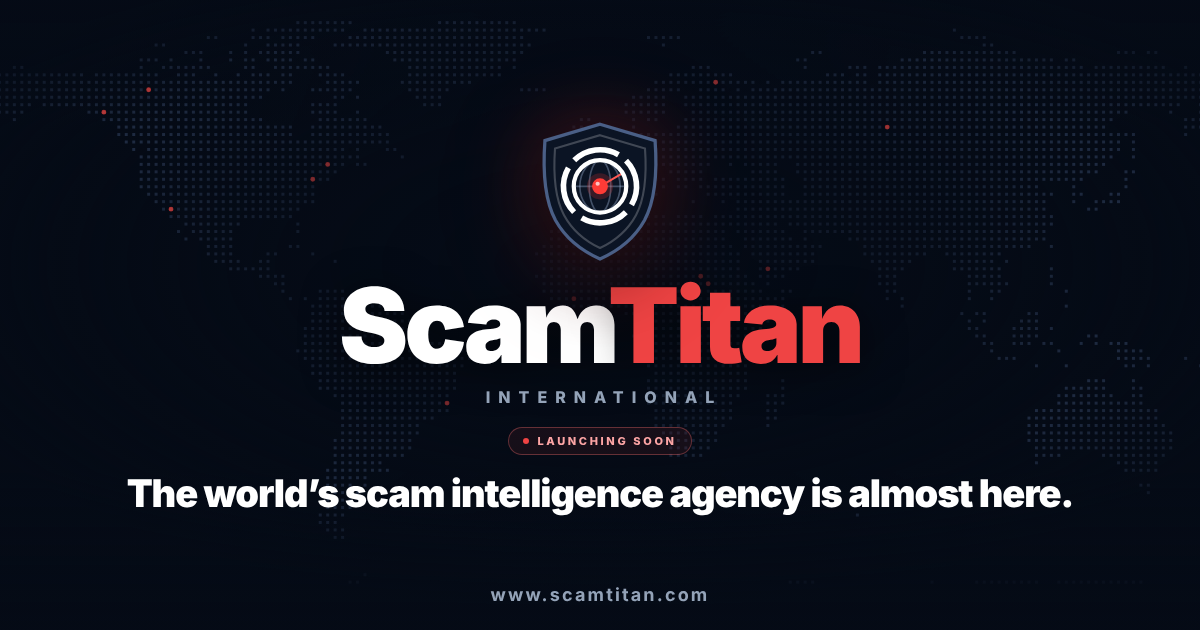
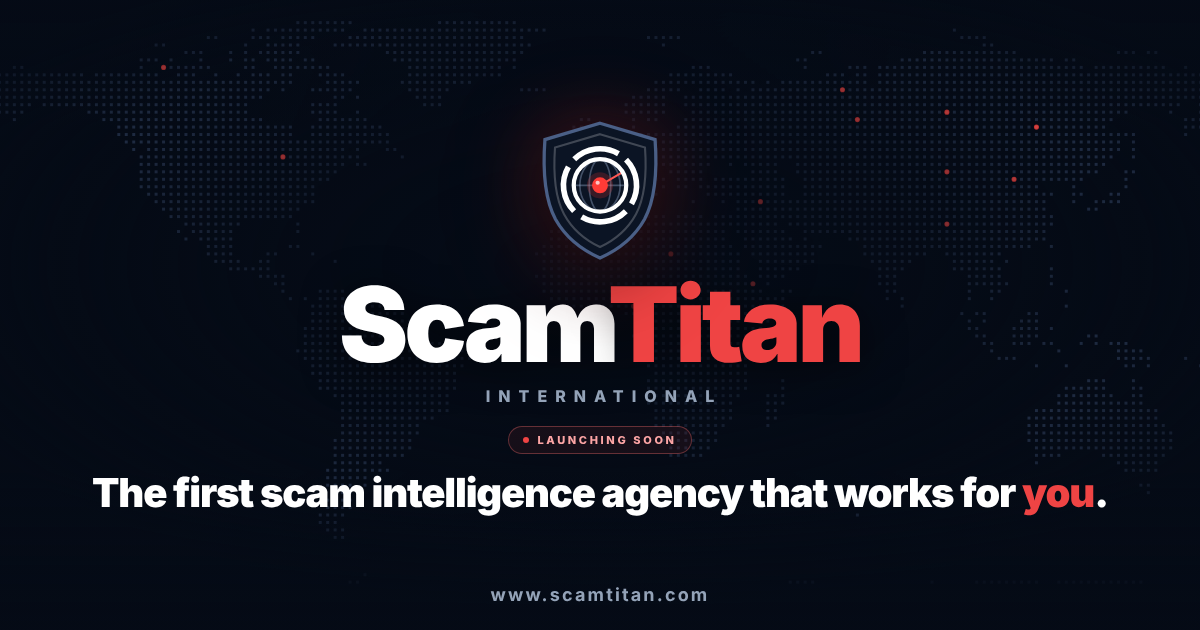
Launch page: lead with what makes ScamTitan one of a kind
New headline, "The first scam intelligence agency that works for you",
and four promise cards drawn from the owner's description of the
service: talk to a real person who documents everything; one call and we
report it to every agency that needs it (FTC, FBI, state AG); scams
watched in 210 countries 24/7; email and text alerts before a scam
reaches you. Cards rise in on load (still for reduced motion); 4 across
on desktop, 2 on tablets, stacked on phones where the email sign-up now
comes before them. Shorter laptop screens get a tighter hero so the
sign-up stays above the fold. Title, description, share card (og.png)
and the app's og:description carry the same message.

Claude-Session: https://claude.ai/code/session_01MUUa22jAfoa1FbSQjeR93R

diff --git a/scamshield-national/frontend/launch/page.js b/scamshield-national/frontend/launch/page.js
@@ -29,12 +29,21 @@ const LOGO = `
   <circle cx="31" cy="28.9" r=".9" fill="#fff" fill-opacity=".7"/>
 </svg>`;
 
+// Line icons for the four promises (stroke = currentColor).
+const svg = (d) => `<svg viewBox="0 0 24 24" fill="none" stroke="currentColor" stroke-width="2" stroke-linecap="round" stroke-linejoin="round">${d}</svg>`;
+const ICON = {
+  phone: svg('<path d="M22 16.9v3a2 2 0 0 1-2.2 2 19.8 19.8 0 0 1-8.6-3.1 19.5 19.5 0 0 1-6-6A19.8 19.8 0 0 1 2.1 4.2 2 2 0 0 1 4.1 2h3a2 2 0 0 1 2 1.7c.1.9.4 1.8.7 2.7a2 2 0 0 1-.5 2.1L8 9.8a16 16 0 0 0 6 6l1.3-1.3a2 2 0 0 1 2.1-.4c.9.3 1.8.6 2.7.7a2 2 0 0 1 1.7 2z"/>'),
+  file: svg('<path d="M14 2H6a2 2 0 0 0-2 2v16a2 2 0 0 0 2 2h12a2 2 0 0 0 2-2V8z"/><path d="M14 2v6h6"/><path d="m9 15 2 2 4-4"/>'),
+  globe: svg('<circle cx="12" cy="12" r="10"/><path d="M2 12h20"/><path d="M12 2a15.3 15.3 0 0 1 4 10 15.3 15.3 0 0 1-4 10 15.3 15.3 0 0 1-4-10 15.3 15.3 0 0 1 4-10z"/>'),
+  bell: svg('<path d="M6 8a6 6 0 0 1 12 0c0 7 3 9 3 9H3s3-2 3-9"/><path d="M10.3 21a1.94 1.94 0 0 0 3.4 0"/>'),
+};
+
 const esc = (s) => String(s).replace(/[&<>"]/g, (c) => ({ '&': '&amp;', '<': '&lt;', '>': '&gt;', '"': '&quot;' })[c]);
 
 export function launchPage({ codeError = false } = {}) {
-  const title = 'ScamTitan International — The world’s scam intelligence agency is almost here';
+  const title = 'ScamTitan International — the first scam intelligence agency that works for you';
   const description =
-    'Thousands of documented scams from 210 countries, live official warnings, a free scam checker and alerts before a scam reaches you. Be the first inside.';
+    'Talk to a real person, and we report your scam to every agency that needs it. Scams monitored in 210 countries, 24/7, with alerts before they reach you. Launching soon.';
   return `<!doctype html>
 <html lang="en" data-scamshield-coming-soon>
 <head>
@@ -91,6 +100,17 @@ export function launchPage({ codeError = false } = {}) {
   @keyframes blink{50%{opacity:.2}}
   h1{margin:14px auto 0;max-width:780px;font-size:clamp(28px,5.2vw,48px);line-height:1.06;font-weight:900;letter-spacing:-.03em;color:#fff}
   .lead{margin:16px auto 0;max-width:600px;font-size:clamp(15px,2.2vw,18px);line-height:1.6;color:#cbd5e1}
+  h1 em{font-style:normal;color:#ef4444}
+  .pillars{list-style:none;display:grid;grid-template-columns:repeat(4,minmax(0,1fr));gap:12px;width:100%;max-width:1100px;margin:28px auto 0;padding:0;text-align:left}
+  .pillars li{position:relative;padding:18px 16px 16px;border:1px solid rgba(148,163,184,.16);border-radius:16px;background:linear-gradient(180deg,rgba(20,32,54,.72),rgba(11,20,36,.72));backdrop-filter:blur(6px);
+    opacity:0;transform:translateY(12px);animation:rise .7s ease-out forwards}
+  .pillars li:nth-child(2){animation-delay:.12s}.pillars li:nth-child(3){animation-delay:.24s}.pillars li:nth-child(4){animation-delay:.36s}
+  @keyframes rise{to{opacity:1;transform:none}}
+  .pillars li::before{content:'';position:absolute;inset:0 0 auto;height:2px;border-radius:16px 16px 0 0;background:linear-gradient(90deg,transparent,#ef4444,transparent)}
+  .ic{display:inline-flex;align-items:center;justify-content:center;width:38px;height:38px;border-radius:11px;background:rgba(239,68,68,.12);color:#f87171;border:1px solid rgba(239,68,68,.3)}
+  .ic svg{width:20px;height:20px}
+  .pillars b{display:block;margin-top:12px;font-size:15px;font-weight:800;color:#fff;letter-spacing:-.01em}
+  .pillars span:last-child{display:block;margin-top:6px;font-size:13px;line-height:1.5;color:#94a3b8}
   .stats{display:grid;grid-template-columns:repeat(3,minmax(0,1fr));gap:10px;width:100%;max-width:640px;margin:24px auto 0;opacity:0;transition:opacity .6s}
   .stats.on{opacity:1}
   .stat{padding:14px 8px;border:1px solid rgba(148,163,184,.16);border-radius:14px;background:rgba(15,26,43,.55);backdrop-filter:blur(6px)}
@@ -125,14 +145,23 @@ export function launchPage({ codeError = false } = {}) {
   .code{display:flex;gap:6px;margin-top:8px}
   .code input{min-height:38px;border:1px solid rgba(148,163,184,.25);border-radius:9px;background:#0b1424;font-size:14px}
   .code button{min-height:38px;padding:0 14px;font-size:13px}
+  @media (min-width:561px) and (max-height:980px){
+    .logo{width:84px;height:84px}.wordmark{margin-top:8px;font-size:58px}.sub{margin-top:6px}
+    .eyebrow{margin-top:14px}h1{margin-top:10px;font-size:40px}.lead{margin-top:10px;font-size:16px}
+    .pillars{margin-top:18px}.pillars li{padding:14px 14px 12px}.pillars b{margin-top:8px}
+    .stats{margin-top:14px}.stat{padding:10px 8px}.join{margin-top:14px}
+  }
+  @media (max-width:1000px) and (min-width:561px){.pillars{grid-template-columns:repeat(2,minmax(0,1fr))}}
   @media (max-width:560px){
     header{padding:14px 16px}.status span{display:none}
     .logo{width:104px;height:104px}
     .stats{gap:6px}.stat{padding:12px 4px}
+    .pillars{order:1;grid-template-columns:1fr;gap:8px;margin-top:26px}.pillars li{display:grid;grid-template-columns:38px 1fr;column-gap:12px;padding:14px}
+    .pillars b{margin-top:0;align-self:center}.pillars span:last-child{grid-column:2;margin-top:2px}
     .row{flex-direction:column}button{width:100%}
     footer{padding:12px 16px 16px}
   }
-  @media (prefers-reduced-motion:reduce){.sweep,.core,.ping,.dot,.eyebrow i,.tag i,.track{animation:none}.ping{display:none}}
+  @media (prefers-reduced-motion:reduce){.sweep,.core,.ping,.dot,.eyebrow i,.tag i,.track{animation:none}.ping{display:none}.pillars li{animation:none;opacity:1;transform:none}}
 </style>
 </head>
 <body>
@@ -148,8 +177,14 @@ export function launchPage({ codeError = false } = {}) {
     <p class="wordmark">Scam<span>Titan</span></p>
     <p class="sub">International</p>
     <p class="eyebrow"><i></i>Launching soon</p>
-    <h1>The world&rsquo;s scam intelligence agency is almost here.</h1>
-    <p class="lead">Every documented scam, every official warning, from every country &mdash; and a warning before it reaches you or your family.</p>
+    <h1>The first scam intelligence agency that works for <em>you</em>.</h1>
+    <p class="lead">Scams and scammers are all we do. One call, and real people take it from there &mdash; worldwide, around the clock.</p>
+    <ul class="pillars">
+      <li><span class="ic" aria-hidden="true">${ICON.phone}</span><b>Talk to a real person who cares</b><span>Call us. A real person listens, takes it seriously, and documents everything you tell them.</span></li>
+      <li><span class="ic" aria-hidden="true">${ICON.file}</span><b>One call. Every agency.</b><span>We report it for you &mdash; FTC, FBI, your state Attorney General and every agency that needs it. No more hour-long forms.</span></li>
+      <li><span class="ic" aria-hidden="true">${ICON.globe}</span><b>Watching the world, 24/7</b><span>We monitor official warnings and scam activity in 210 countries, around the clock.</span></li>
+      <li><span class="ic" aria-hidden="true">${ICON.bell}</span><b>Warned before it reaches you</b><span>Email and text alerts the moment a scam targets you or your area.</span></li>
+    </ul>
     <div class="stats" id="stats" aria-live="polite">
       <div class="stat"><b data-k="scams">0</b><span>Scams documented</span></div>
       <div class="stat"><b data-k="countries">0</b><span>Countries</span></div>

diff --git a/scamshield-national/frontend/index.html b/scamshield-national/frontend/index.html
@@ -14,7 +14,7 @@
     <meta property="og:type" content="website" />
     <meta property="og:site_name" content="ScamTitan International" />
     <meta property="og:title" content="ScamTitan International" />
-    <meta property="og:description" content="The world's scam intelligence agency: documented scams from 210 countries, live official warnings, a free scam checker and alerts before a scam reaches you." />
+    <meta property="og:description" content="The first scam intelligence agency that works for you: talk to a real person, we report it to every agency that needs it, and we watch scams in 210 countries 24/7." />
     <meta property="og:image" content="https://www.scamtitan.com/og.png" />
     <meta name="twitter:card" content="summary_large_image" />
     <meta name="twitter:image" content="https://www.scamtitan.com/og.png" />
